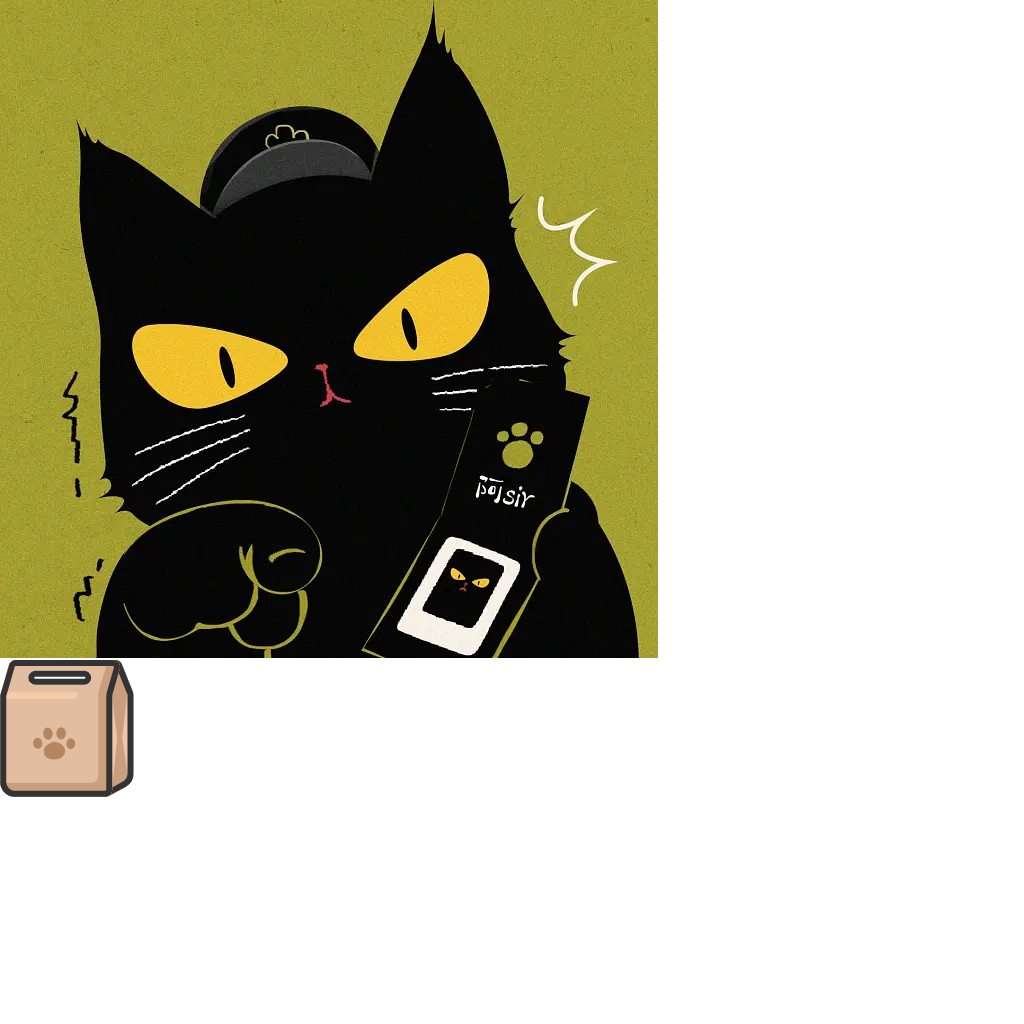
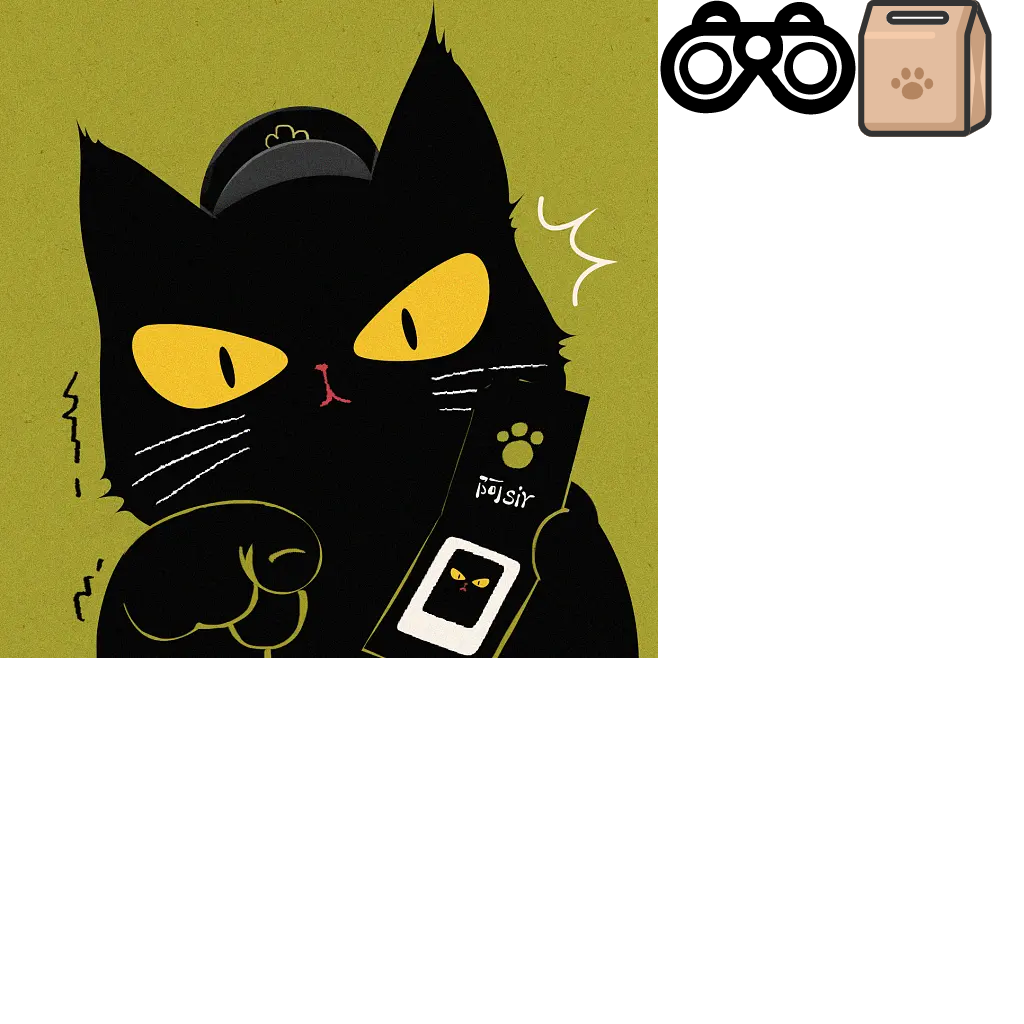
完成移动望远镜任务

Changed region(s): [[0.625, 0.0, 0.9688, 0.1562], [0.0, 0.625, 0.1562, 0.7812]]

diff --git a/Assets/Scripts/Tasks/MoveTelescopeBinoculars.cs b/Assets/Scripts/Tasks/MoveTelescopeBinoculars.cs
@@ -1,0 +1,51 @@
+using FairyGUI;
+using UnityEngine;
+
+namespace Tasks
+{
+    public class MoveTelescopeBinoculars : TaskUtil
+    {
+        private GLoader _telescopeBinocular;
+
+        private GGraph _startPoint;
+        private GGraph _endPoint;
+        private GTextField _successText;
+
+        protected override void Awake()
+        {
+            TaskPanelName = "MoveTelescopeBinoculars";
+
+            base.Awake();
+
+            _telescopeBinocular = TaskUI.GetChild("Loader_TelescopeBinoculars").asLoader;
+            _endPoint = TaskUI.GetChild("EndPoint").asGraph;
+            _startPoint = TaskUI.GetChild("StartPoint").asGraph;
+            _successText = TaskUI.GetChild("Success_Text").asTextField;
+
+            _telescopeBinocular.onDragMove.Add(OnTelescopeBinocularBeDragged);
+            _telescopeBinocular.onDragEnd.Add(OnTelescopeBinocularDragEnd);
+        }
+
+        protected override void InitTask()
+        {
+            _telescopeBinocular.draggable = true;
+            _successText.visible = false;
+        }
+
+        private void OnTelescopeBinocularBeDragged()
+        {
+            _telescopeBinocular.y = 300f;
+            _telescopeBinocular.x = Mathf.Clamp(Stage.inst.touchPosition.x - 560f, _startPoint.x, _endPoint.x);
+        }
+
+        private void OnTelescopeBinocularDragEnd()
+        {
+            if (_telescopeBinocular.x >= _endPoint.x - _endPoint.width / 2f)
+            {
+                IsSuccess = true;
+                _telescopeBinocular.draggable = false;
+                _successText.visible = true;
+            }
+        }
+    }
+}
